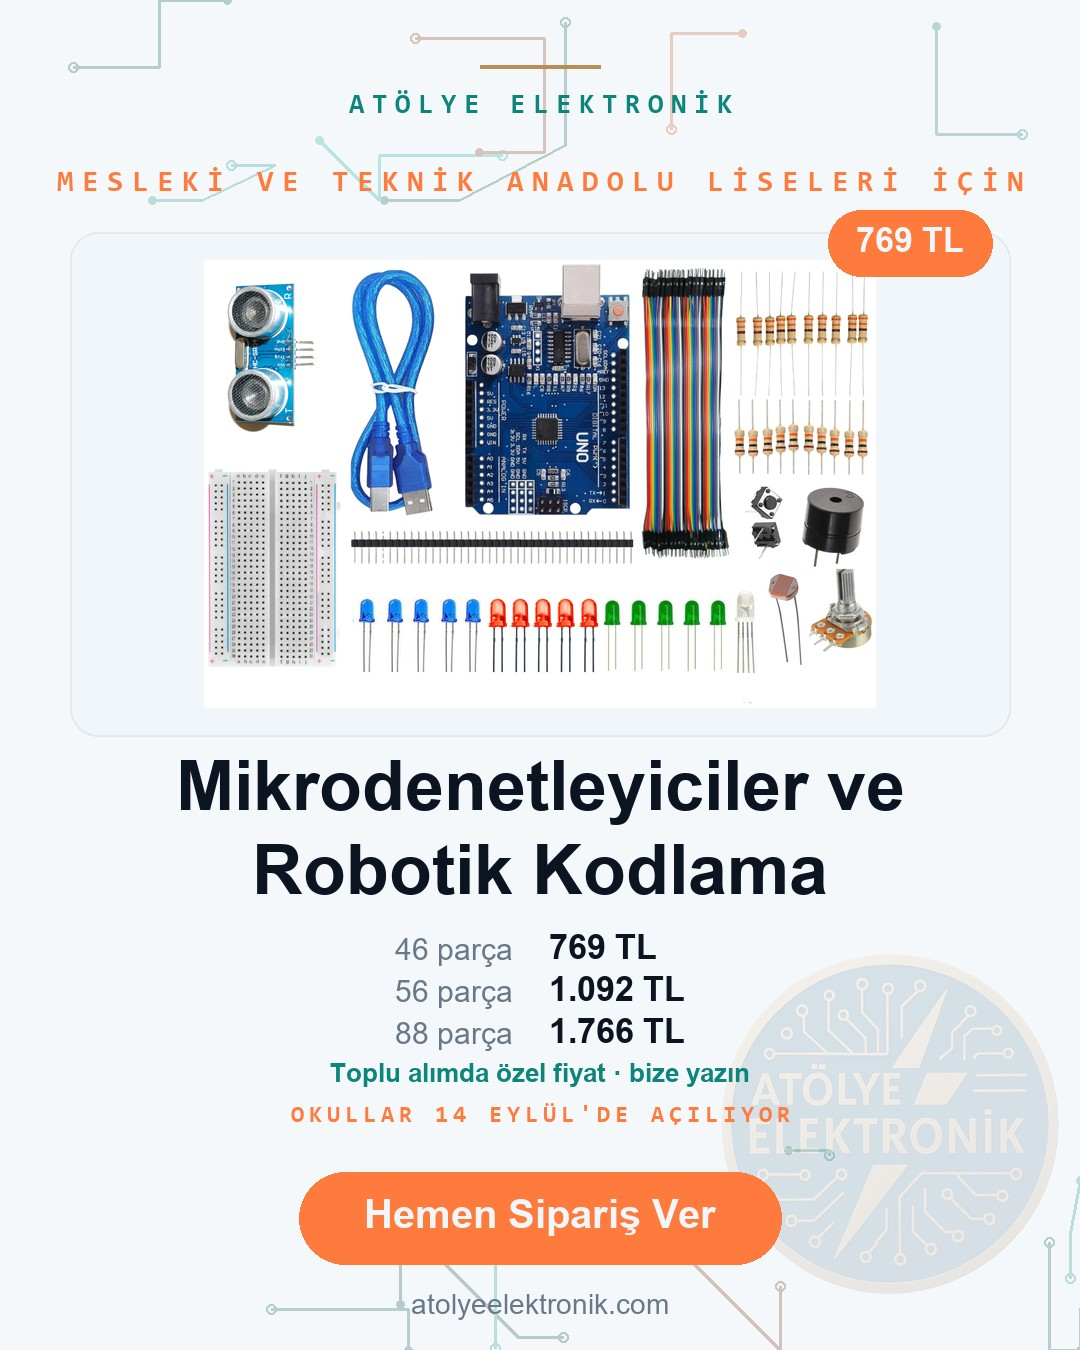
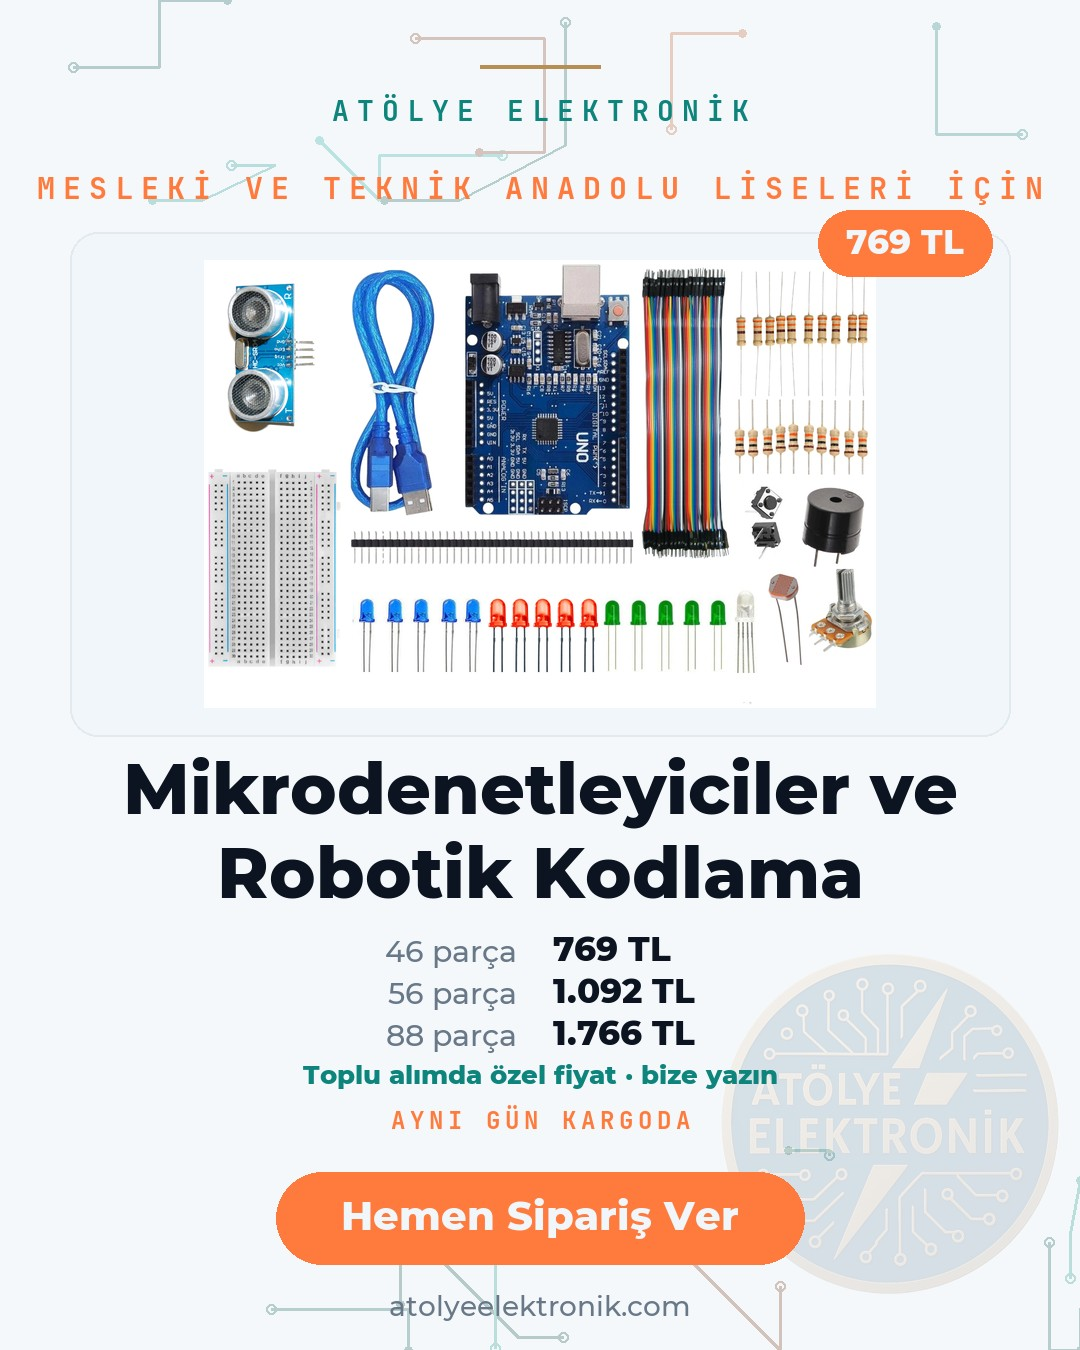
fix: takim cantasi seti 18 parca -> 17 parca; jumper havuzu ayrildi; reklam gorselleri yenilendi
- AETCS18P basligi tum kaynak dosyalarda "17 Parça" (TY'de API ile duzeltildi; N11/Pazarama/Idefix/PttAVM panelden yapilacak)
- shopify_sku.json: AEJK2040 havuzu ve DD/DE alias'lari kaldirildi, jumper tipleri ayri stok tutuyor
- meta_ogretmen_gorsel.py: "OKULLAR 14 EYLUL'DE ACILIYOR" -> "AYNI GUN KARGODA", rozetler "10+ adette tanesi ..."

diff --git a/tools/meta_ogretmen_gorsel.py b/tools/meta_ogretmen_gorsel.py
@@ -68,7 +68,7 @@ REKLAMLAR = [
         # egitimi ogrencilerinin hepsi ayni is dosyasini tutuyor.
         "serit": "MESLEK LİSESİ · MESEM · ÇIRAKLIK İÇİN",
         "foto": "kaynak/staj-defteri.jpg",
-        "rozet_fiyat": "öğrenci başına 85 TL",
+        "rozet_fiyat": "10+ adette tanesi 85 TL",
         "baslik": "Staj defteri, tek siparişte",
         "destek": "Tek fatura · tek kargo · aynı gün gönderim",
         "fiyatlar": [("1 adet", "90 TL"), ("10 adet", "850 TL"),
@@ -78,12 +78,27 @@ REKLAMLAR = [
     {
         "dosya": "meta-ogretmen-temrin-defteri.png",
         "foto": "kaynak/temrin-defteri.jpg",
-        "rozet_fiyat": "öğrenci başına 85 TL",
+        # 15.09.2026 kullanici: tekli 100 TL, coklularda adet basi 90 TL (KDV dahil),
+        # reklamda da sitede de ayni.
+        # 16.09: "ogrenci basina 90 TL" rozeti tekli fiyat 90 gibi okunuyordu (kullanici
+        # "reklam hala 90 diyor") -> adet esigi rozete yazildi, ogrenci reklamina ayri gorsel.
+        "rozet_fiyat": "10+ adette tanesi 90 TL",
         "baslik": "Temrin defteri, tek siparişte",
         "destek": "48 yaprak 96 sayfa · tek fatura · aynı gün kargo",
-        "fiyatlar": [("1 adet", "90 TL"), ("10 adet", "850 TL"),
-                     ("20 adet", "1.700 TL"), ("30 adet", "2.550 TL")],
+        "fiyatlar": [("1 adet", "100 TL"), ("10 adet", "900 TL"),
+                     ("20 adet", "1.800 TL"), ("30 adet", "2.700 TL")],
         "toptan": None,
+        "acele": "AYNI GÜN KARGODA",   # 14 Eylul okul acilisi gecti
+    },
+    {
+        "dosya": "meta-ogrenci-temrin-defteri.png",
+        "foto": "kaynak/temrin-defteri.jpg",
+        "rozet_fiyat": "100 TL",
+        "baslik": "Atölye dersin için temrin defteri",
+        "destek": "48 yaprak 96 sayfa · A4 · aynı gün kargo",
+        "fiyatlar": [("1 adet", "100 TL"), ("10 adet", "900 TL")],
+        "toptan": None,
+        "acele": "AYNI GÜN KARGODA",
     },
     {
         "dosya": "meta-ogretmen-takim-cantasi.png",
@@ -121,7 +136,7 @@ REKLAMLAR = [
         "dosya": "meta-mesem-staj-defteri.png",
         "serit": "MESLEKİ EĞİTİM MERKEZİ · MESEM İÇİN",
         "foto": "kaynak/staj-defteri.jpg",
-        "rozet_fiyat": "öğrenci başına 85 TL",
+        "rozet_fiyat": "10+ adette tanesi 85 TL",
         "baslik": "MESEM staj defteri",
         "destek": "İşletmelerde mesleki eğitim iş dosyası",
         "fiyatlar": [("1 adet", "90 TL"), ("10 adet", "850 TL"),
@@ -130,7 +145,7 @@ REKLAMLAR = [
     },
 ]
 
-ACELE = "OKULLAR 14 EYLÜL'DE AÇILIYOR"
+ACELE = "AYNI GÜN KARGODA"   # 16.09: "OKULLAR 14 EYLÜL'DE AÇILIYOR" tarihi geçti
 CTA = "Hemen Sipariş Ver"
 
 # Turuncu aciliyet şeridi bunun altına giriyor; CTA düğmesinin üst kenarı
@@ -306,10 +321,11 @@ def uret(reklam: dict) -> pathlib.Path:
     # sabit (ust kenari 1172); metin tabani 1120'yi gecerse yerlesim tasar,
     # uretim sirasinda uyar ki sessizce bozuk gorsel cikmasin.
     fa = _mono(24)
-    gen = _aralikli_genislik(d, ACELE, fa, aralik=5)
+    acele = reklam.get("acele", ACELE)
+    gen = _aralikli_genislik(d, acele, fa, aralik=5)
     if y + 22 > METIN_TABANI + 24:
         print(f"  UYARI: {reklam['dosya']} metin tabani {y:.0f}px — CTA'ya tasiyor")
-    _aralikli(d, ((W - gen) / 2, min(max(y + 22, 1086), METIN_TABANI + 24)), ACELE, fa,
+    _aralikli(d, ((W - gen) / 2, min(max(y + 22, 1086), METIN_TABANI + 24)), acele, fa,
               TURUNCU, aralik=5)
 
     # CTA: alan adi degil EYLEM. Alan adi altta kucuk kaliyor.
